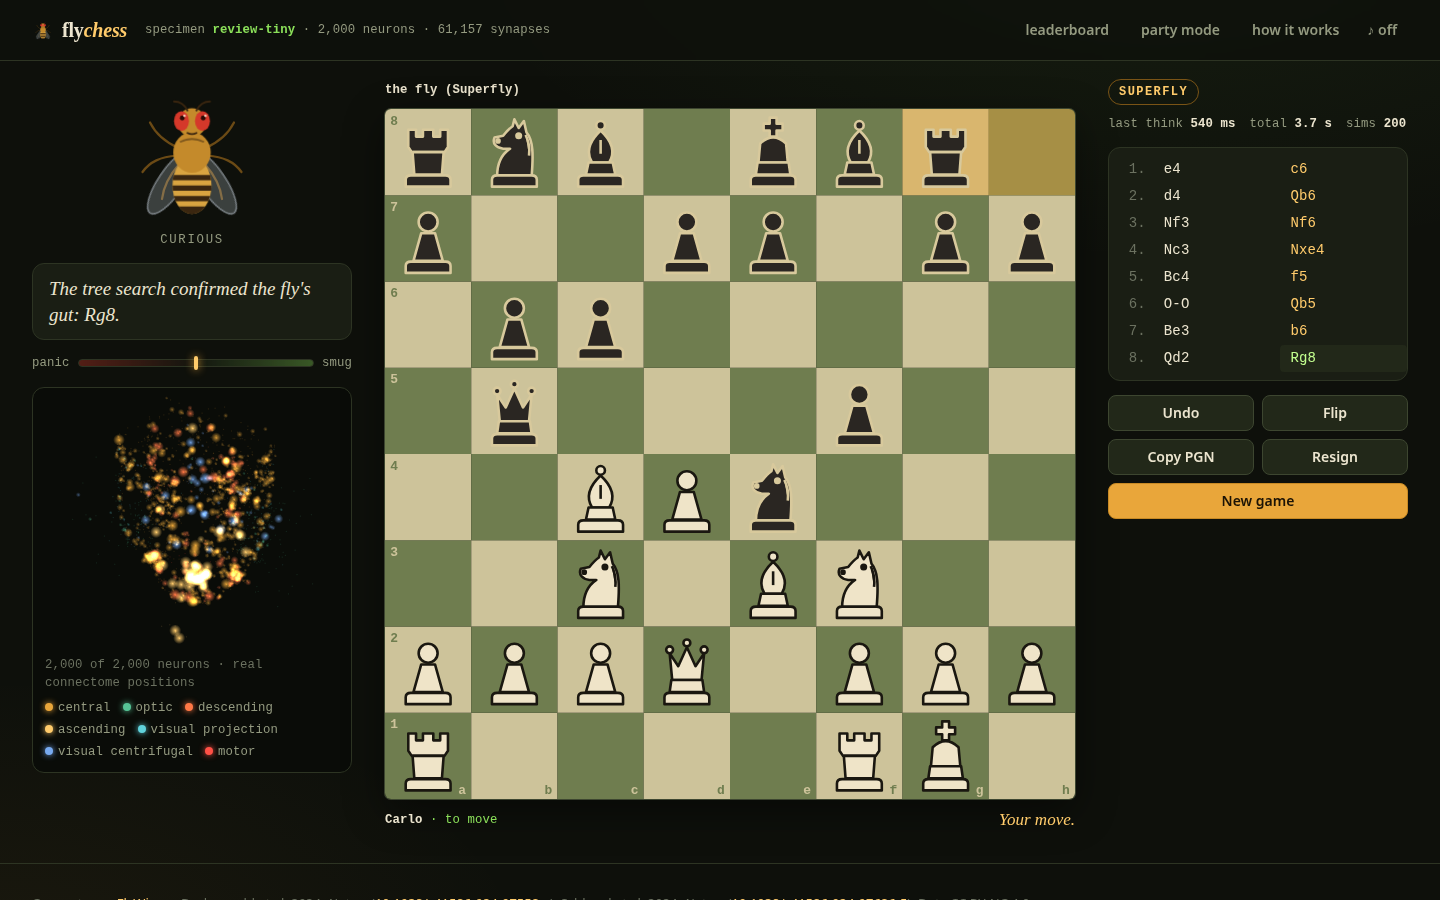
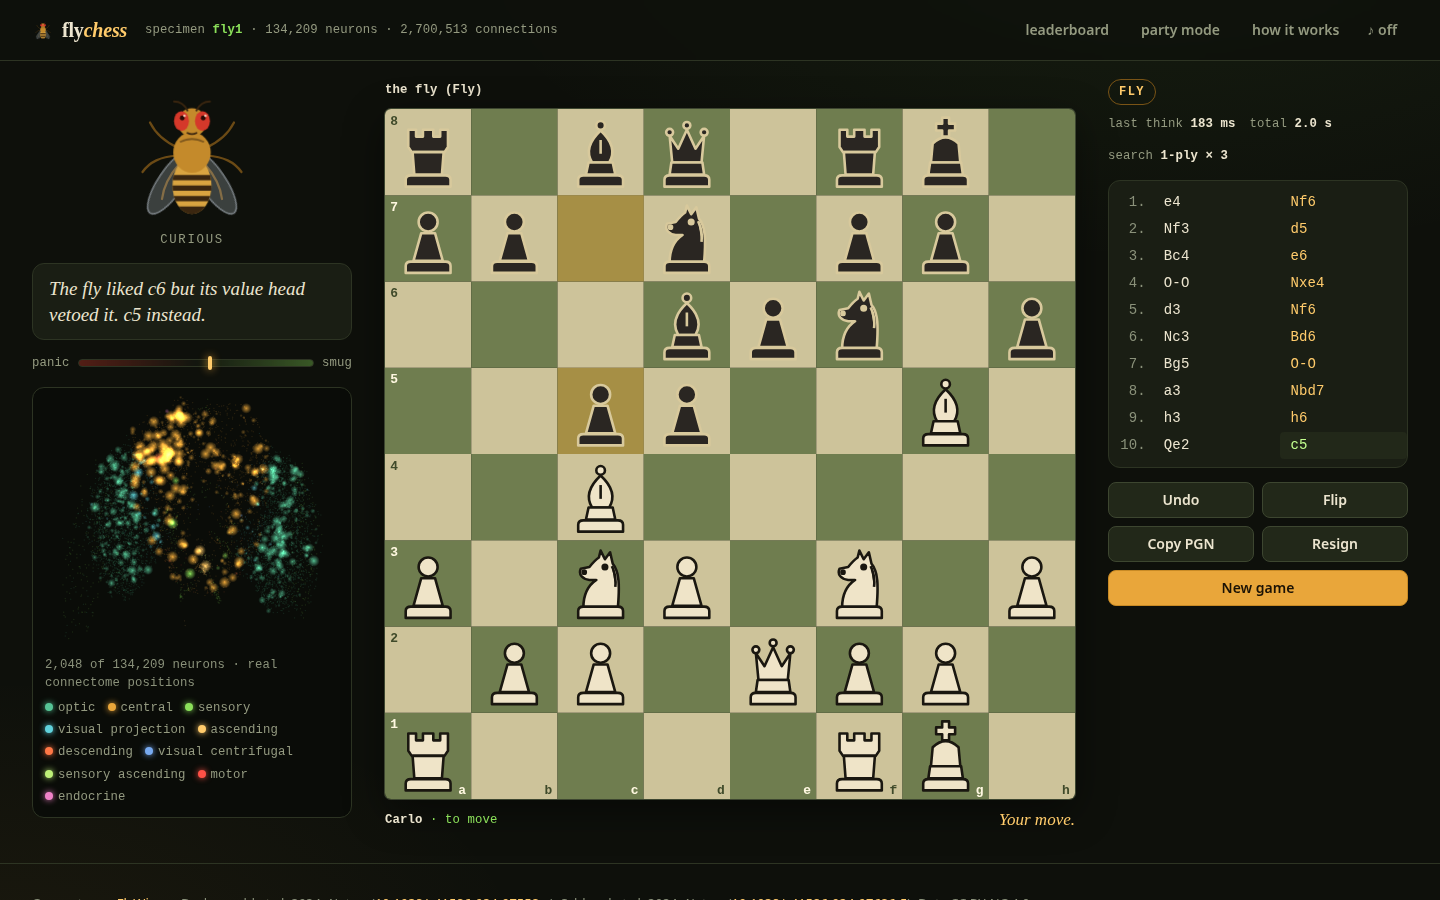
Document reference-run results and self-play outcome; real-brain website screenshot; superfly clock label

diff --git a/web/app.js b/web/app.js
@@ -525,7 +525,7 @@ class App {
     this.board.highlight({ lastMove: null, check: null });
     $('screen-landing').hidden = true; $('screen-game').hidden = false;
     $('diff-pill').textContent = DIFF_LABEL[opts.difficulty];
-    $('clk-last').textContent = '—'; $('clk-total').textContent = '0.0 s'; $('clk-sims').textContent = opts.difficulty === 'superfly' ? '0/200' : '—';
+    $('clk-last').textContent = '—'; $('clk-total').textContent = '0.0 s'; $('clk-sims').textContent = opts.difficulty === 'superfly' ? '0/100' : '—';
     $('btn-resign').disabled = false;
     this.renderMoves();
     this.renderPartyBar();

diff --git a/README.md b/README.md
@@ -281,7 +281,14 @@ demonstration built on their work.
   ascending neurons with the most outputs, the move is read from the 1,415 descending / motor neurons.
   A fly has no chess-board sensory organ; `W_in` is where most of the "chess" is learned.
 - **Data**: only rated Lichess games ≥ 1800 from 2014; the self-play stage is short by AlphaZero
-  standards (hours, not months).
+  standards (hours, not months). In the reference run 50 self-play iterations (64 games × 64 sims
+  each) improved the value head a lot (MSE 0.80 → 0.36) and the raw policy's results against a
+  random mover, but the search-based player got *weaker* (0–5 with 5 draws against the imitation
+  checkpoint with `superfly`) — with so few games it starts forgetting the human data. The shipped
+  brain is therefore the imitation checkpoint; larger `selfplay_games_per_iter`, a lower
+  `selfplay_lr` or mixing human positions into the replay buffer are the obvious next steps.
+- **Numerics**: keep `amp: false`. bf16 autocast on the dense parts silently degrades the loss once
+  recurrent activity grows (measured −8 points of top-1 on the same weights).
 - **Browser**: the full brain is a 30 MB download and ~35 ms per forward pass; superfly takes several
   seconds per move on a laptop.
 - **FlyWire data is CC BY-NC 4.0** — the exported brain and anything derived from it are for
@@ -296,7 +303,12 @@ board input and move read-out are new learned projections. `docs/SPEC.md §0` is
 the fly brain is the only thing that picks moves, in Python and in the browser, verified by the
 parity test.
 
-**How strong is it?** Weak. Measure your own run with `fly eval --run <name>` (random and 1-ply
+**How strong is it?** The reference run (`fly1`, whole brain, one epoch of imitation on 56.7M
+positions) predicts the move of a 1800+-rated human 32.3% of the time (top-3: 56.5%) on held-out
+games. With search (`superfly`) it beat a 1-ply material-greedy bot 10–0 and a random mover 8–0–2;
+the raw policy only draws most games against the material bot. It plays sensible openings and
+positional moves and blunders tactically — beatable by a club player, a real fight for a beginner.
+Measure your own run with `fly eval --run <name>` (random and 1-ply
 material opponents ship with the repo; add `--opponent stockfish:1` if a Stockfish binary is on your
 PATH). The dashboard tracks Elo over training. Expect it to beat a random mover comfortably after
 imitation and to lose to any real engine.
